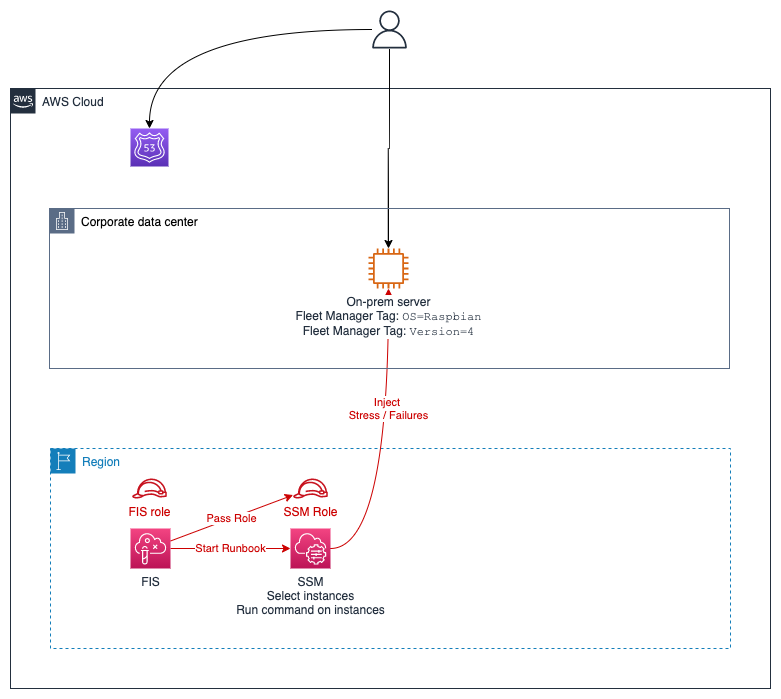
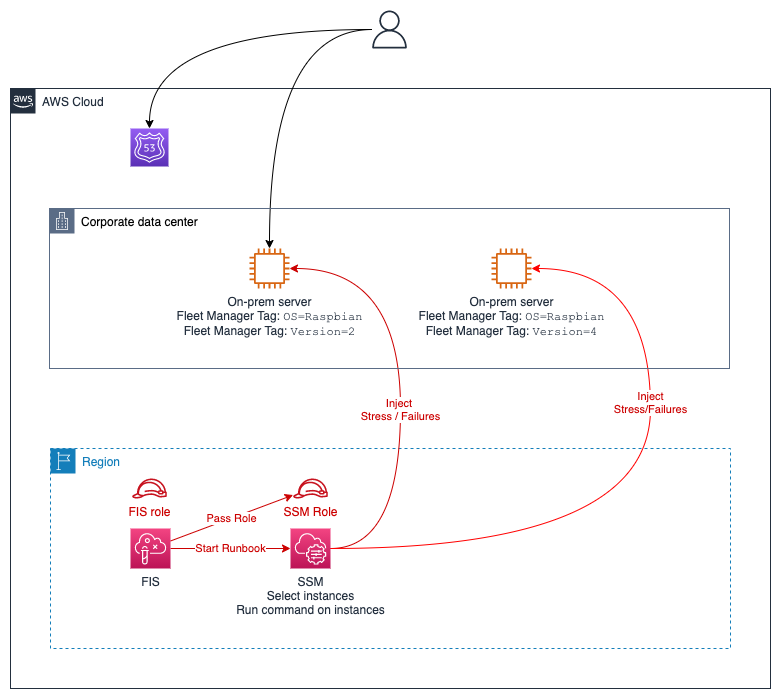
Working version

diff --git a/workshop/content/030_basic_content/090_scenarios/020_targeting_hybrid_instances/_index.en.md b/workshop/content/030_basic_content/090_scenarios/020_targeting_hybrid_instances/_index.en.md
@@ -17,9 +17,11 @@ Some aspects of using hybrid instances may require activation of "advanced" tier
 For this section we assume that you already have a hybrid instance setup. 
 {{% /notice %}}
 
-For illustration we will assume that you have a hybrid activation of an on-prem Raspberry Pi and the managed instance has been tagged in [**SSM FleetManager**](https://docs.aws.amazon.com/systems-manager/latest/userguide/tagging-managed-instances.html) with tag `OS` / value `Raspbian` and tag `Version` / value `4`:
+For illustration we will assume that you have a hybrid activation of two on-prem Raspberry Pi instances and the managed instances have been tagged in [**SSM FleetManager**](https://docs.aws.amazon.com/systems-manager/latest/userguide/tagging-managed-instances.html) with tag `OS` / value `Raspbian` and tag `Version` / value `2` and `4` respectively:
 
 {{< img "stresstest-with-runbook-hybrid.png" "Hybrid setup">}}
+
+## Setup
 
 To replicate the [**Linux CPU Stress Experiment**]({{< ref "030_basic_content/040_ssm/020_linux_stress" >}}) on the on-prem instance we will use a variation on the [**FIS SSM Start Automation Setup**]({{< ref "030_basic_content/040_ssm/050_direct_automation" >}}).
 
@@ -104,7 +106,7 @@ Update the `FisWorkshopServiceRole` as described in the [**FIS SSM Start Automat
 
 The core of this approach is to select managed instances targets using SSM and then execute runbooks against the selected instances. The following parameters help target instances and define the fault injection to run:
 
-* `Filters` - defines the filter parameter for the SSM [**DescribeInstanceInformation**](https://docs.aws.amazon.com/systems-manager/latest/APIReference/API_DescribeInstanceInformation.html) API. By default this is set to `[{"Key":"PingStatus","Values":["Online"]},{"Key":"ResourceType","Values":["ManagedInstance"]}]'`, which will target all running managed instances. Below we will show you how to target instances based on FleetManager tags by adding `{"Key":"tag:OS","Values":["Raspbian"]}`.
+* `Filters` - defines the filter parameter for the SSM [**DescribeInstanceInformation**](https://docs.aws.amazon.com/systems-manager/latest/APIReference/API_DescribeInstanceInformation.html) API. By default this is set to `[{"Key":"PingStatus","Values":["Online"]},{"Key":"ResourceType","Values":["ManagedInstance"]}]'`, which will target all running managed instances. Below we will show you how to instead target instances based on FleetManager tags by adding `{"Key":"tag:OS","Values":["Raspbian"]}`.
 
 * `DocumentName` - the name of an SSM runbook document to be called from this automation document after instance selection.
 
@@ -125,29 +127,53 @@ parameters:
     description: "SSM document name to run on hybrid instances"
   DocumentParameters:
     type: StringMap
-    description: "Parameters to pass to SSM document run on hybrid instances"
+    description: "Parameters to pass to SSM document run on hybrid instances (string to deal with FIS serialization bug)"
   Filters:
-    type: MapList
+    # Normally this would be a MapList. 
+    # Currently passing as string and converting to deal with some serialization complexity.
+    type: String
     description: '(Optional) Selector JSON for DescribeInstanceInformation as described in CLI/API docs. Default [{"Key":"PingStatus","Values":["Online"]},{"Key":"ResourceType","Values":["ManagedInstance"]}]'
-    default: 
-      - Key: PingStatus
-        Values:
-          - Online
-      - Key: ResourceType
-        Values:
-          - ManagedInstance
+    default: "[{\"Key\":\"PingStatus\",\"Values\":[\"Online\"]},{\"Key\":\"ResourceType\",\"Values\":[\"ManagedInstance\"]}]" 
 mainSteps:
+# ------------------------------------------------------------------
+# Unpack a JSON string to JSON to deal with serialization complexity
+- name: FormatConverter
+  action: aws:executeScript
+  onFailure: 'step:ExitHook'
+  onCancel: 'step:ExitHook'
+  timeoutSeconds: 60
+  inputs:
+    Runtime: "python3.6"
+    Handler: "script_handler"
+    InputPayload: 
+      JSONstring: "{{Filters}}"
+    Script: |
+      import json
+      def script_handler(events, context):
+          return json.loads(events.get("JSONstring","{}"))
+  outputs:
+    - Name: Filters
+      Selector: "$.Payload"
+      Type: MapList
+# ------------------------------------------------------------------
+# Select managed instances. Note that you can filter EITHER on tags
+# OR on instance properties but not both. 
 - name: SelectHybridInstances
   action: aws:executeAwsApi
+  onFailure: 'step:ExitHook'
+  onCancel: 'step:ExitHook'
   timeoutSeconds: 60
   inputs:
     Service: ssm
     Api: DescribeInstanceInformation
-    Filters: "{{ Filters }}"
+    Filters: "{{ FormatConverter.Filters }}"
   outputs:
     - Name: InstanceIds
       Selector: "$..InstanceId"
       Type: StringList
+# ------------------------------------------------------------------
+# Execute the DocumentName / DocumentParameters from inputs on the 
+# instances selected in previous step.
 - name: DoStuff
   action: 'aws:runCommand'
   inputs:
@@ -155,9 +181,12 @@ mainSteps:
     InstanceIds:
       - '{{SelectHybridInstances.InstanceIds}}'
     Parameters: "{{ DocumentParameters}}"
-outputs:
-- SelectHybridInstances.InstanceIds
-
+# ------------------------------------------------------------------
+# NOOP exit point to allow skipping steps if selection fails
+- name: ExitHook
+  action: aws:sleep
+  inputs:
+    Duration: PT1S
 ```
 
 Use the following CLI command to create the SSM document and export the document ARN:
@@ -182,7 +211,21 @@ HYBRID_DOCUMENT_ARN=arn:aws:ssm:${REGION}:${ACCOUNT_ID}:document/${HYBRID_DOCUME
 echo $HYBRID_DOCUMENT_ARN
 ```
 
+Assuming you have managed instances you can validate the SSM document by invoking it directly like this:
+
+```bash
+# This works
+aws ssm start-automation-execution \
+  --document-name "TargetHybridInstances" \
+  --parameters '{"AutomationAssumeRole":["'${HYBRID_ROLE_ARN}'"],"DocumentName":["AWSFIS-Run-CPU-Stress"],"DocumentParameters":["{ \"DurationSeconds\": \"120\" }"],"Filters":["{\"Key\":\"PingStatus\",\"Values\":[\"Online\"]}","{\"Key\":\"ResourceType\",\"Values\":[\"ManagedInstance\"]}"]}'
+```
+
+Once started you can examine the progress by navigating to the [**SSM Automation console**](https://us-west-2.console.aws.amazon.com/systems-manager/automation/executions?region=us-west-2) and selecting the execution ID from the invocation.
+
+
 ### Create FIS template
+
+As we saw in the **Create FIS Experiment Template** subsecton of [**FIS SSM Start Automation Setup**]({{< ref "030_basic_content/040_ssm/050_direct_automation" >}}), we need to substitute some ARN values into the FIS template. For convenience and to make the JSON string escaping easier we will do this with some shell substitutions. First we set the relevant environment variables:
 
 ```bash
 REGION=$(aws ec2 describe-availability-zones --output text --query 'AvailabilityZones[0].[RegionName]')
@@ -191,6 +234,8 @@ FIS_WORKSHOP_ROLE_ARN=arn:aws:iam::${ACCOUNT_ID}:role/FisWorkshopServiceRole
 LINUX_STRESS_ARN=arn:aws:ssm:${REGION}::document/AWSFIS-Run-CPU-Stress
 
 ```
+
+The we use a bash trick to substitute them into our FIS template and write it to disk as `fis-hybrid-target.json`. Note: the 5 backslashes are escapes required for multiple evaluation steps. See the final FIS template for a more human readable result.
 
 ```bash
 cat > fis-hybrid-target.json <<EOT
@@ -222,19 +267,54 @@ EOT
 
 ```
 
-arn:${AWS::Partition}:ssm:${AWS::Region}:${AWS::AccountId}:document/${WinStressDocument}
-
-
-'{"AutomationAssumeRole":["arn:aws:iam::238810465798:role/FisWorkshopSsmHybridDemoRole"],"DocumentName":["AWSFIS-Run-CPU-Stress"],"DocumentParameters":["{ \"DurationSeconds\": \"120\" }"],"Filters":["{\"Key\":\"PingStatus\",\"Values\":[\"Online\"]}","{\"Key\":\"ResourceType\",\"Values\":[\"ManagedInstance\"]}","{\"Key\":\"tag:OS\",\"Values\":[\"Raspbian\"]}"]}'
-
-
-Check the template content in `fis-hybrid-target.json` to confirm that the Role and Document ARNs have been filled in, then create the FIS experiment template
+Check the template content in `fis-hybrid-target.json` to confirm that the Role and Document ARNs have been filled in, then create the FIS experiment template:
 
 ```bash
 aws fis create-experiment-template \
    --cli-input-json file://fis-hybrid-target.json
 
 ```
+
+## Experiments
+
+### Targeting all running hybrid instances
+
+SSM allows targeting instances based on properties returned by the SSM [**DescribeInstanceInformation**](https://docs.aws.amazon.com/systems-manager/latest/APIReference/API_DescribeInstanceInformation.html) API. On prem instances are identified by a `ResourceType` of `ManagedInstance`. Additionally we might only want to include currently running instances identified by a `PingStatus` of `Online`.
+
+Navigate to the [**FIS experiment template console**](https://console.aws.amazon.com/fis/home?#ExperimentTemplates), select the experiment template ID created above, and edit the `"Filters"` statement in the `documentParameters` entry:
+
+{{<img "edit-filter-location.png" "Edit filter statement" >}}
+
+to read:
+
+```
+"Filters": "[ {\"Key\":\"PingStatus\",\"Values\":[\"Online\"]}, {\"Key\":\"ResourceType\",\"Values\":[\"ManagedInstance\"]} ]"
+```
+
+### Targeting specific managed instances
+
+SSM allows you to target instances based on tag values. The default version of the template will target all instances tagged with `OS` value `Raspbian`. We could furter refine that to only target instances with `Version` value `4`.  
+
+Navigate to the [**FIS experiment template console**](https://console.aws.amazon.com/fis/home?#ExperimentTemplates), select the experiment template ID created above, and edit the `"Filters"` statement in the `documentParameters` entry:
+
+{{<img "edit-filter-location.png" "Edit filter statement" >}}
+
+to read:
+
+```
+"Filters": "[ {\"Key\":\"tag:OS\",\"Values\":[\"Raspbian\"]}, {\"Key\":\"tag:Version\",\"Values\":[\"4\"]} ]"
+```
+
+### Targeting specific running instances
+
+Because tags are stored separately from instance metadata SSM does not allow joint queries for both metadata such as `PingState` and tags such as `OS`. If you have only a small number of instances you could make two separate lookups and use the `aws:executeScript` action to merge the two result sets. For large numbers of managed instances this is potentially slow and may run into pagination issues on the API. Here we would suggest on instead manage all relevant information in tags and do a single lookup. 
+
+
+
+From here follow the "Create FIS Experiment Template" step shown in [**FIS SSM Start Automation Setup**]({{< ref "030_basic_content/040_ssm/050_direct_automation" >}}) to add this as an action to your FIS experiment.
+
+
+
 
 
 ```bash
